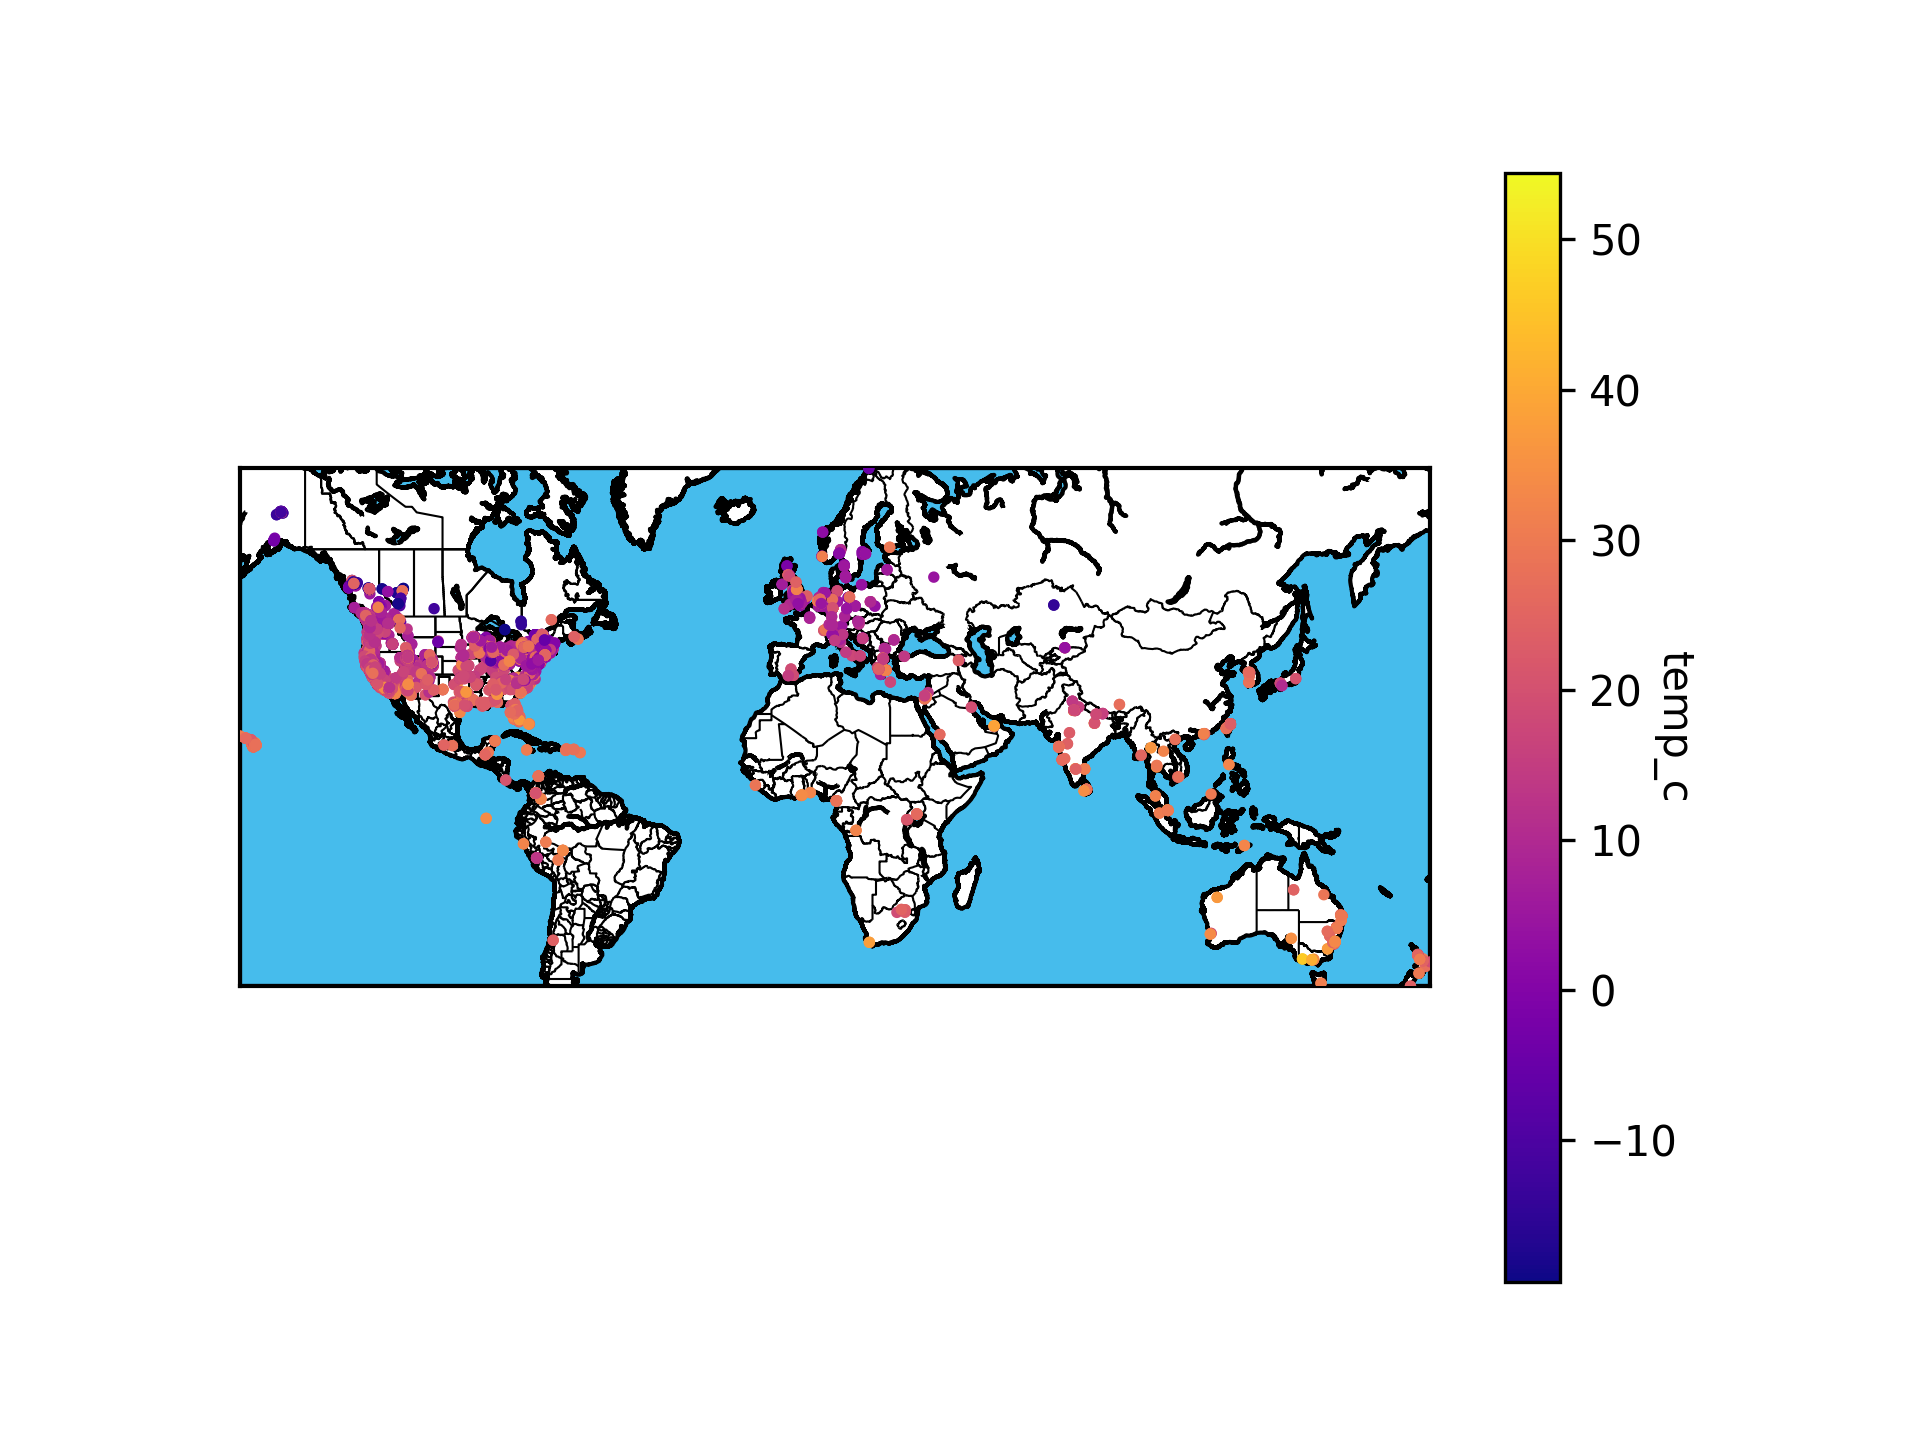
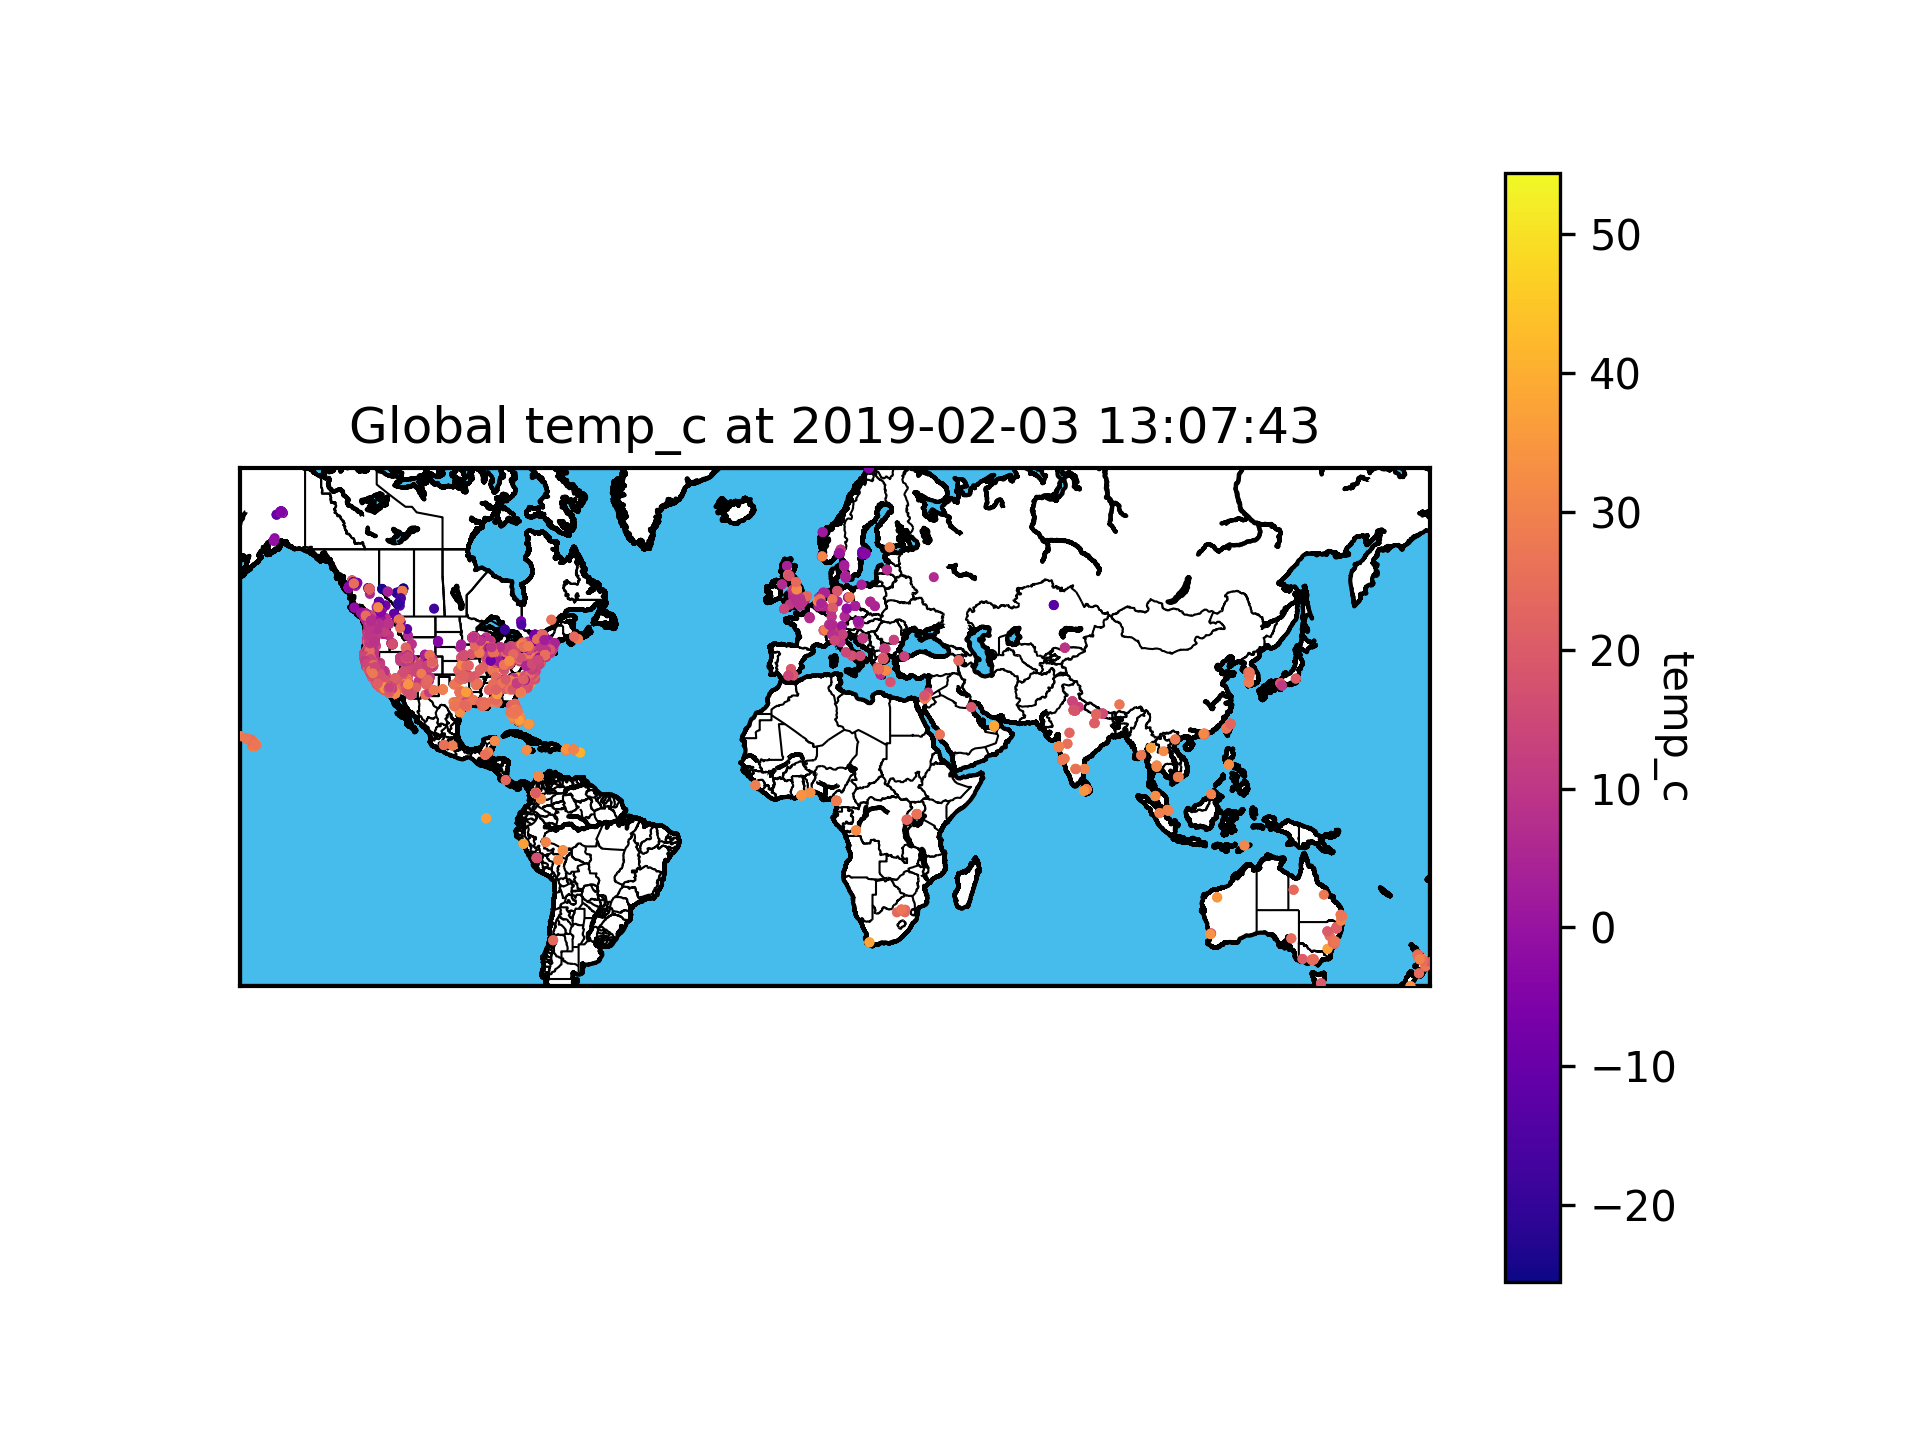
Add title to map export

diff --git a/scripts/plot_map.py b/scripts/plot_map.py
@@ -3,6 +3,7 @@ import numpy as np
 import matplotlib.pyplot as plt
 from purpleair import purpleair
 from purpleair import sensor
+import datetime
 import random
 
 
@@ -46,6 +47,7 @@ m.fillcontinents(color = land, lake_color=water)
 # convert lat and lon to map projection coordinates
 lons, lats = m(lon, lat)
 # plot points as red dots
-m.scatter(lons, lats, marker='o', c=colors, cmap='plasma', zorder=5, s=3)
+m.scatter(lons, lats, marker='o', c=colors, cmap='plasma', zorder=5, s=2)
 plt.colorbar().set_label(f'{var_to_viz}', rotation=270)
+plt.title(f'Global {var_to_viz} at {datetime.datetime.now().strftime("%Y-%m-%d %H:%M:%S")}')
 plt.savefig('maps/sensor_map.png', dpi=300)
